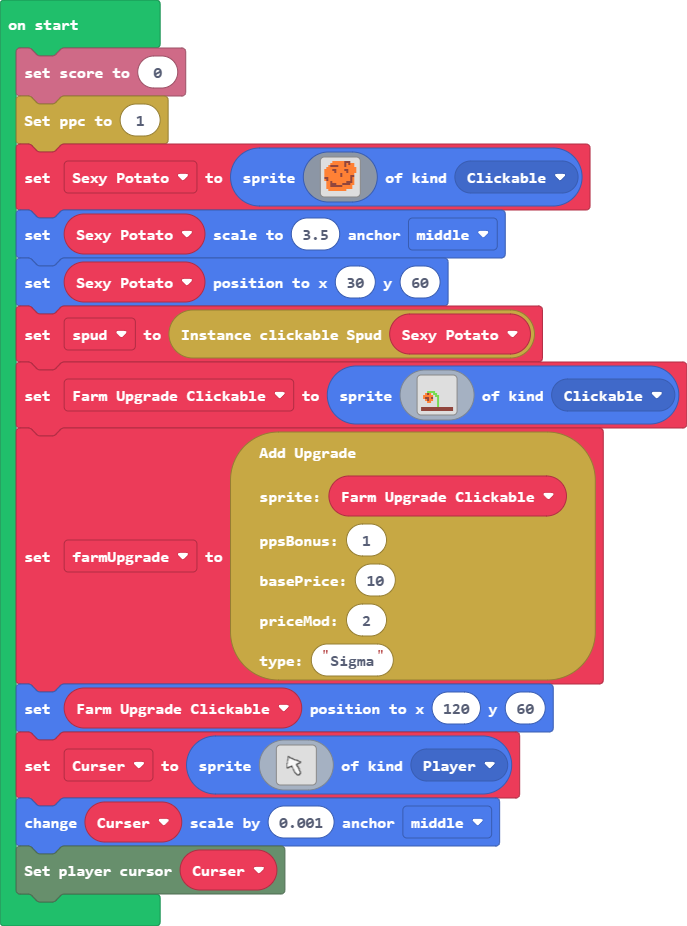
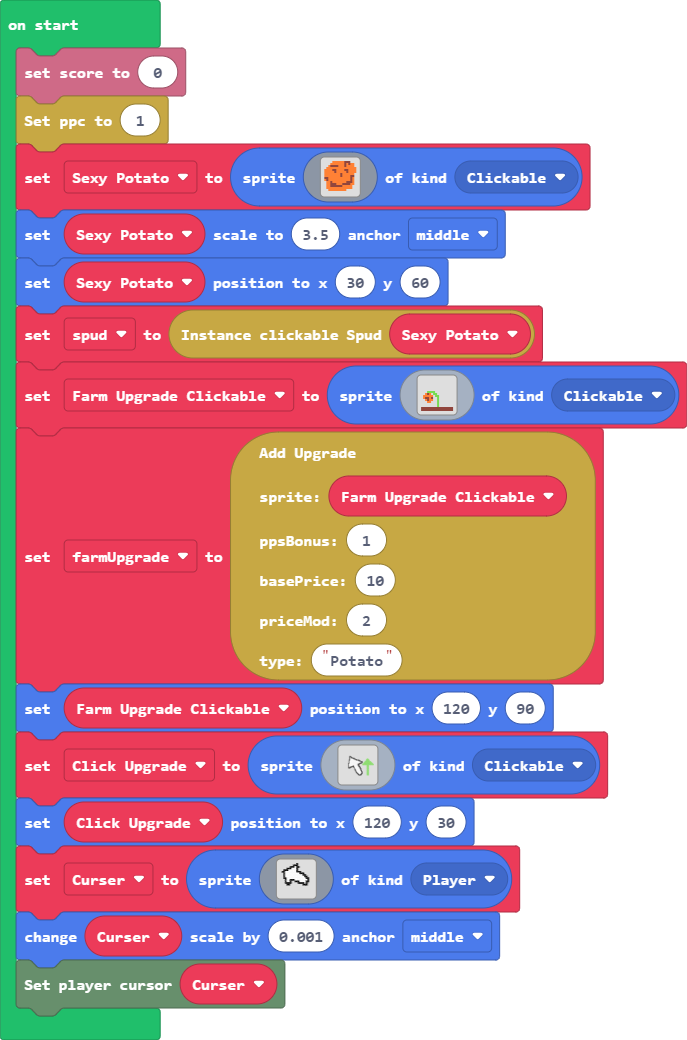
Update main.blocks, main.ts, images.g.jres, images.g.ts

diff --git a/images.g.ts b/images.g.ts
@@ -22,8 +22,31 @@ e e 4 4 4 4 4 4 4 4 4 4 4 e 4 .
 . . 4 4 4 4 4 4 4 4 4 . . . . . 
 . . . . . . . . . . . . . . . . 
 `;
+            case "image3":
+            case "Cursor 2":return img`
+..........f.........
+........fff.........
+......fff1ff........
+....fff111f.........
+..fff11111f.........
+.ff1111111fff.......
+..f111111111fff.....
+..f11111111111ff....
+..f111111111111ff...
+..ff111111111111ff..
+...f11fff11111111f..
+...f11f..fff1111ff..
+...ffff....ffff1f...
+....ff........fff...
+....................
+....................
+....................
+....................
+....................
+....................
+`;
             case "image2":
-            case "Curser":return img`
+            case "Cursor Upgrade":return img`
 ..................................................
 ..................................................
 ..................................................
@@ -39,32 +62,32 @@ e e 4 4 4 4 4 4 4 4 4 4 4 e 4 .
 ............fff...................................
 ............f1ff..................................
 ............f11ffff...............................
-............f11111fff.............................
-............f1111111fff...........................
-...........ff111111111fffff.......................
-...........f11111111111111fff.....................
-...........f1111111111111111ffff..................
-...........f1111111111111111111f..................
-...........f11111111111111111fff..................
-..........ff111111111111111fff....................
-..........f11111111111111fff......................
-..........f11111111111111f........................
-..........f11111111111111ff.......................
-..........f111111ff1111111f.......................
-..........f111fffff1111111ff......................
-..........f1fff...ff1111111ff.....................
-..........fff......f11111111f.....................
-....................f1111111ff....................
-....................f11111111f....................
-....................ff1111111f....................
-.....................f1111111ff...................
-.....................ff1111111f...................
-......................f1111111ff..................
-......................ff1111111f..................
-.......................ff111111f..................
-........................ff1111ff..................
-.........................ff11ff...................
-..........................ffff....................
+............f11111fff..................77.........
+............f1111111fff...............7777........
+...........ff111111111fffff...........77777.......
+...........f11111111111111fff........777777.......
+...........f1111111111111111ffff....777777777.....
+...........f1111111111111111111f...77777777777....
+...........f11111111111111111fff..7777777777777...
+..........ff111111111111111fff....77777777777777..
+..........f11111111111111fff....77777777777777777.
+..........f11111111111111f......777777777777777777
+..........f11111111111111ff............777........
+..........f111111ff1111111f............777........
+..........f111fffff1111111ff...........777........
+..........f1fff...ff1111111ff..........777........
+..........fff......f11111111f..........777........
+....................f1111111ff.........777........
+....................f11111111f.........777........
+....................ff1111111f.........777........
+.....................f1111111ff........777........
+.....................ff1111111f........777........
+......................f1111111ff.......777........
+......................ff1111111f.......777........
+.......................ff111111f.......777........
+........................ff1111ff.......777........
+.........................ff11ff........777........
+..........................ffff.........777........
 ..................................................
 ..................................................
 ..................................................

diff --git a/main.ts b/main.ts
@@ -30,9 +30,11 @@ Farm_Upgrade_Clickable,
 1,
 10,
 2,
-"Sigma"
+"Potato"
 )
-Farm_Upgrade_Clickable.setPosition(120, 60)
-let Curser = sprites.create(assets.image`Curser`, SpriteKind.Player)
+Farm_Upgrade_Clickable.setPosition(120, 90)
+let Click_Upgrade = sprites.create(assets.image`Cursor Upgrade`, SpriteKind.Clickable)
+Click_Upgrade.setPosition(120, 30)
+let Curser = sprites.create(assets.image`Cursor 2`, SpriteKind.Player)
 Curser.changeScale(0.001, ScaleAnchor.Middle)
 ui.setCursor(Curser)
